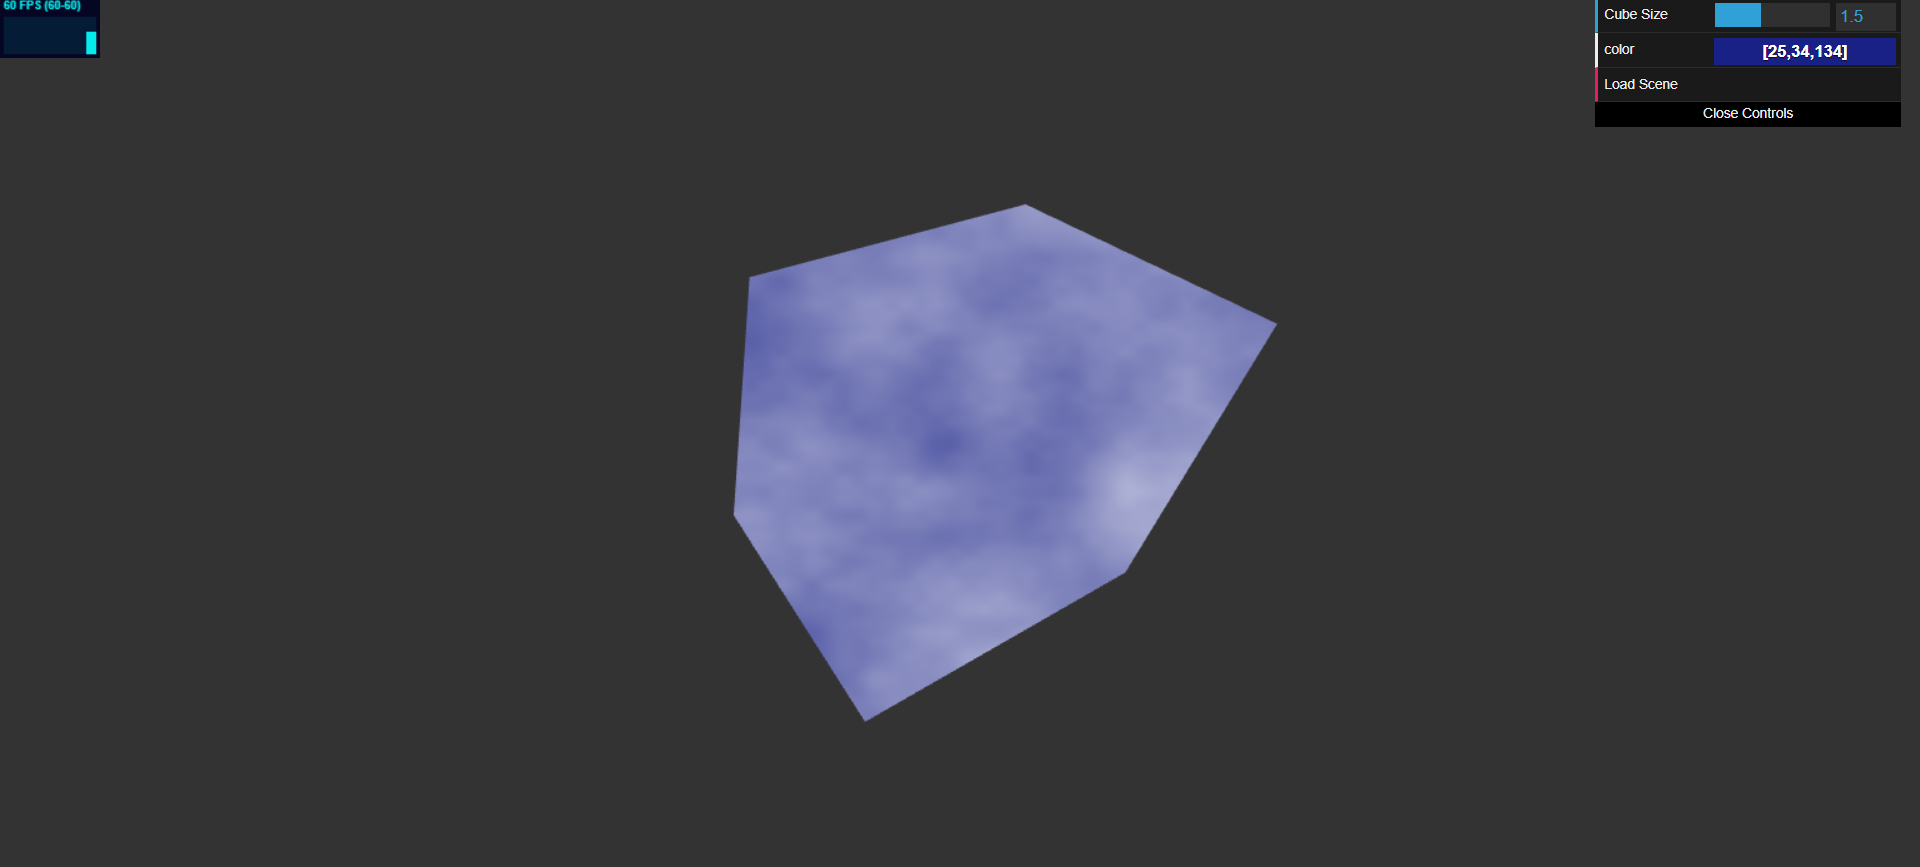
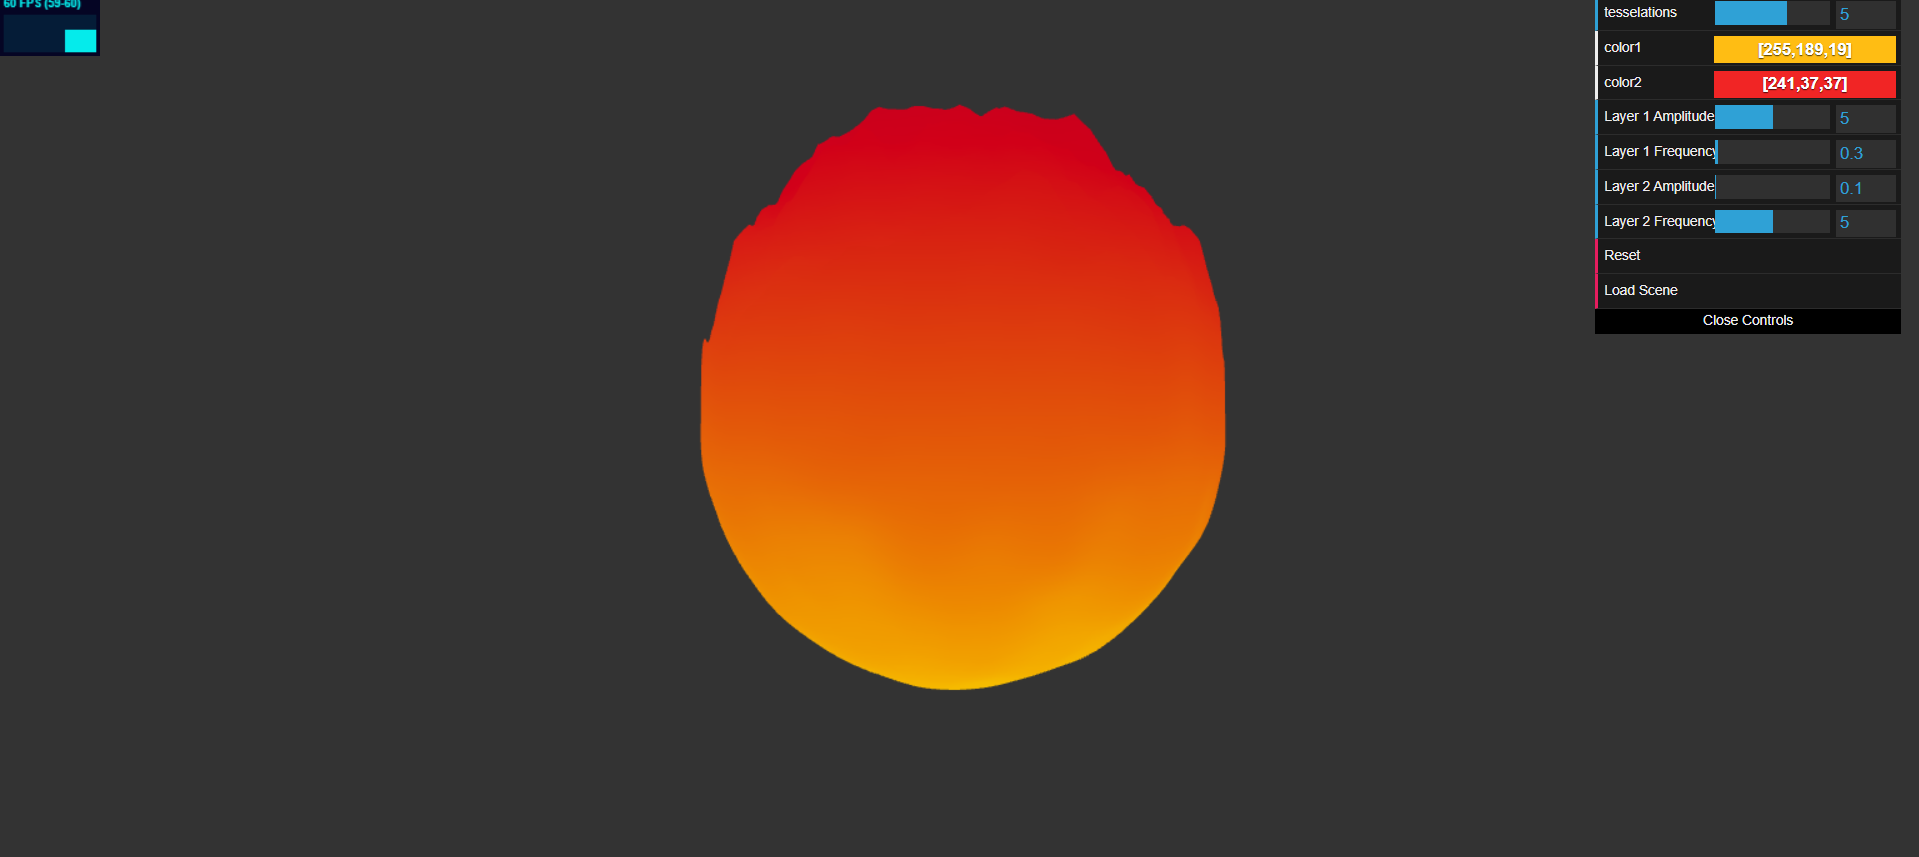
update readme

diff --git a/README.md b/README.md
@@ -1,5 +1,12 @@
 # [Project 1: Noise](https://github.com/CIS-566-Fall-2022/hw01-fireball-base)
 
+## Description
+[Demo](http://luoluobuli.github.io/CIS566-hw01-fireball)
+![](images/screenshot.png)
+I apply a displacement to each vertex in the vertex shader using the output of FBM function. The displacement is built from two layers: one with high amplitude and low frequency, and another with low amplitude and high frequency. Both layers can be adjusted through the GUI.  Additionally, I offset vertices above the origin slightly upward to enhance the appearance of a fire-like effect.
+
+In fragment shader, two input colors are blended based on the displacement value and the vertex height.
+
 ## Objective
 
 Get comfortable with using WebGL and its shaders to generate an interesting 3D, continuous surface using a multi-octave noise algorithm.
